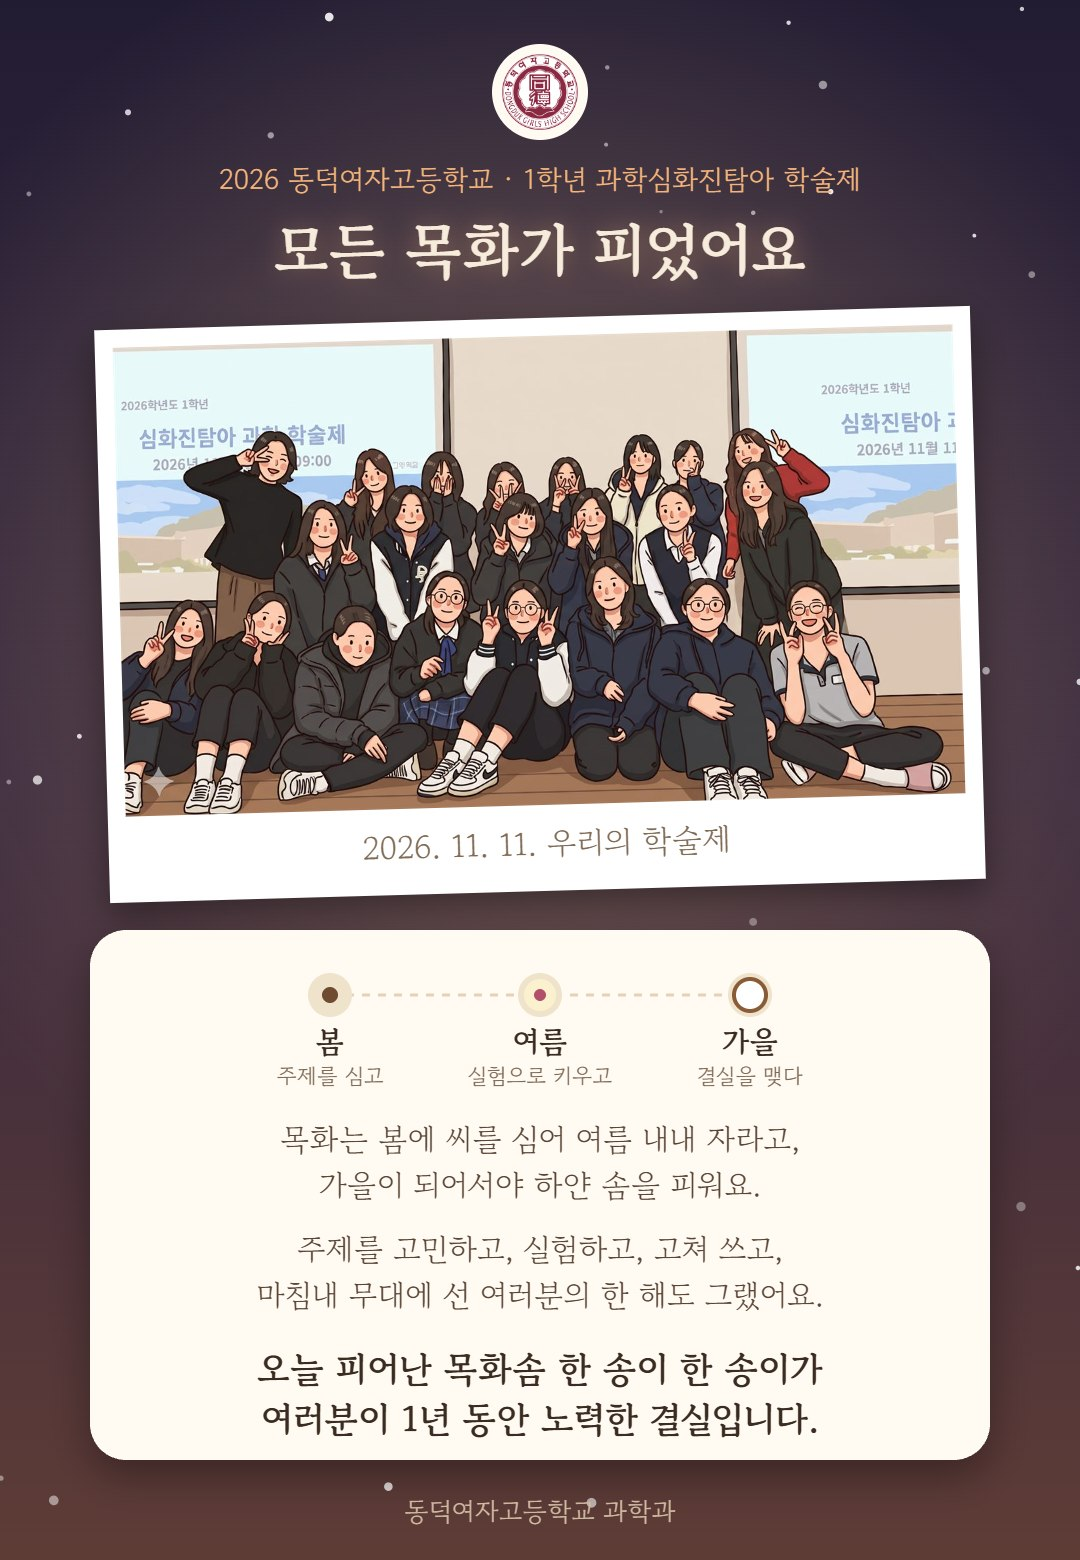
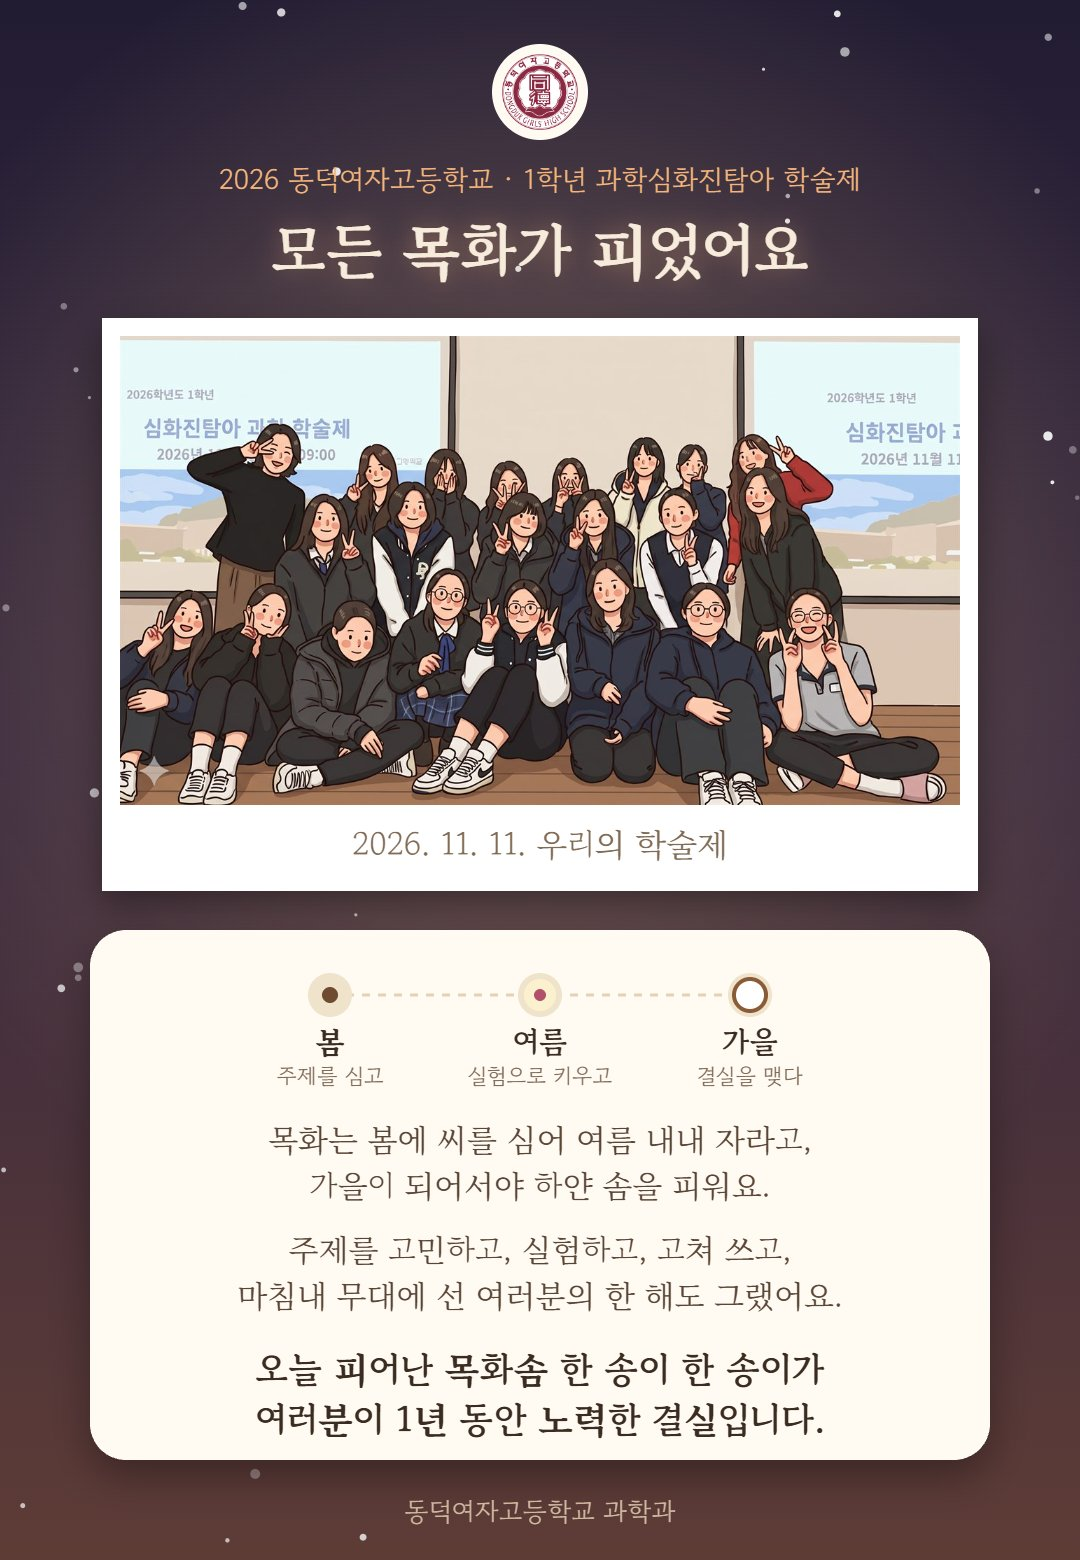
마지막 카드 단체사진 폴라로이드 기울기 제거

Changed region(s): [[0.0611, 0.1231, 0.9167, 0.5846], [0.2444, 0.7077, 0.7639, 0.9231], [0.3667, 0.1231, 0.5194, 0.1846]]

diff --git a/index.html b/index.html
@@ -9,7 +9,7 @@
   <link rel="preconnect" href="https://fonts.googleapis.com">
   <link rel="preconnect" href="https://fonts.gstatic.com" crossorigin>
   <link href="https://fonts.googleapis.com/css2?family=Gowun+Batang:wght@400;700&family=Gowun+Dodum&display=swap" rel="stylesheet">
-  <link rel="stylesheet" href="style.css?v=20261111i">
+  <link rel="stylesheet" href="style.css?v=20261111j">
 </head>
 <body>
   <div class="drift-layer" id="drift" aria-hidden="true"></div>
@@ -75,7 +75,7 @@
     </article>
   </div>
 
-  <script src="messages.js?v=20261111i"></script>
-  <script src="app.js?v=20261111i"></script>
+  <script src="messages.js?v=20261111j"></script>
+  <script src="app.js?v=20261111j"></script>
 </body>
 </html>

diff --git a/style.css b/style.css
@@ -572,12 +572,11 @@ main { padding-bottom: 32px; }
   background: #fff;
   border-radius: 6px;
   box-shadow: 0 10px 24px -12px rgba(60, 40, 20, .55), 0 0 0 1px var(--line);
-  transform: rotate(-1.5deg);
 }
 .modal.finale.show .memory { animation: drop-in .8s cubic-bezier(.34, 1.4, .64, 1) .15s both; }
 @keyframes drop-in {
-  from { opacity: 0; transform: translateY(-24px) rotate(-6deg) scale(.94); }
-  to { opacity: 1; transform: rotate(-1.5deg); }
+  from { opacity: 0; transform: translateY(-24px) scale(.94); }
+  to { opacity: 1; transform: none; }
 }
 .memory img {
   display: block;

diff --git a/app.js b/app.js
@@ -748,11 +748,10 @@
     ctx.fillText("모든 목화가 피었어요", 540, 252);
     ctx.shadowBlur = 0;
 
-    // polaroid photo, slightly tilted
+    // polaroid photo, kept level
     const pw = 840, ph = pw * 670 / 1200, frameW = pw + 36, frameH = ph + 104;
     ctx.save();
     ctx.translate(540, 318 + frameH / 2);
-    ctx.rotate(-1.6 * Math.PI / 180);
     ctx.shadowColor = "rgba(0,0,0,.4)";
     ctx.shadowBlur = 36;
     ctx.shadowOffsetY = 14;
